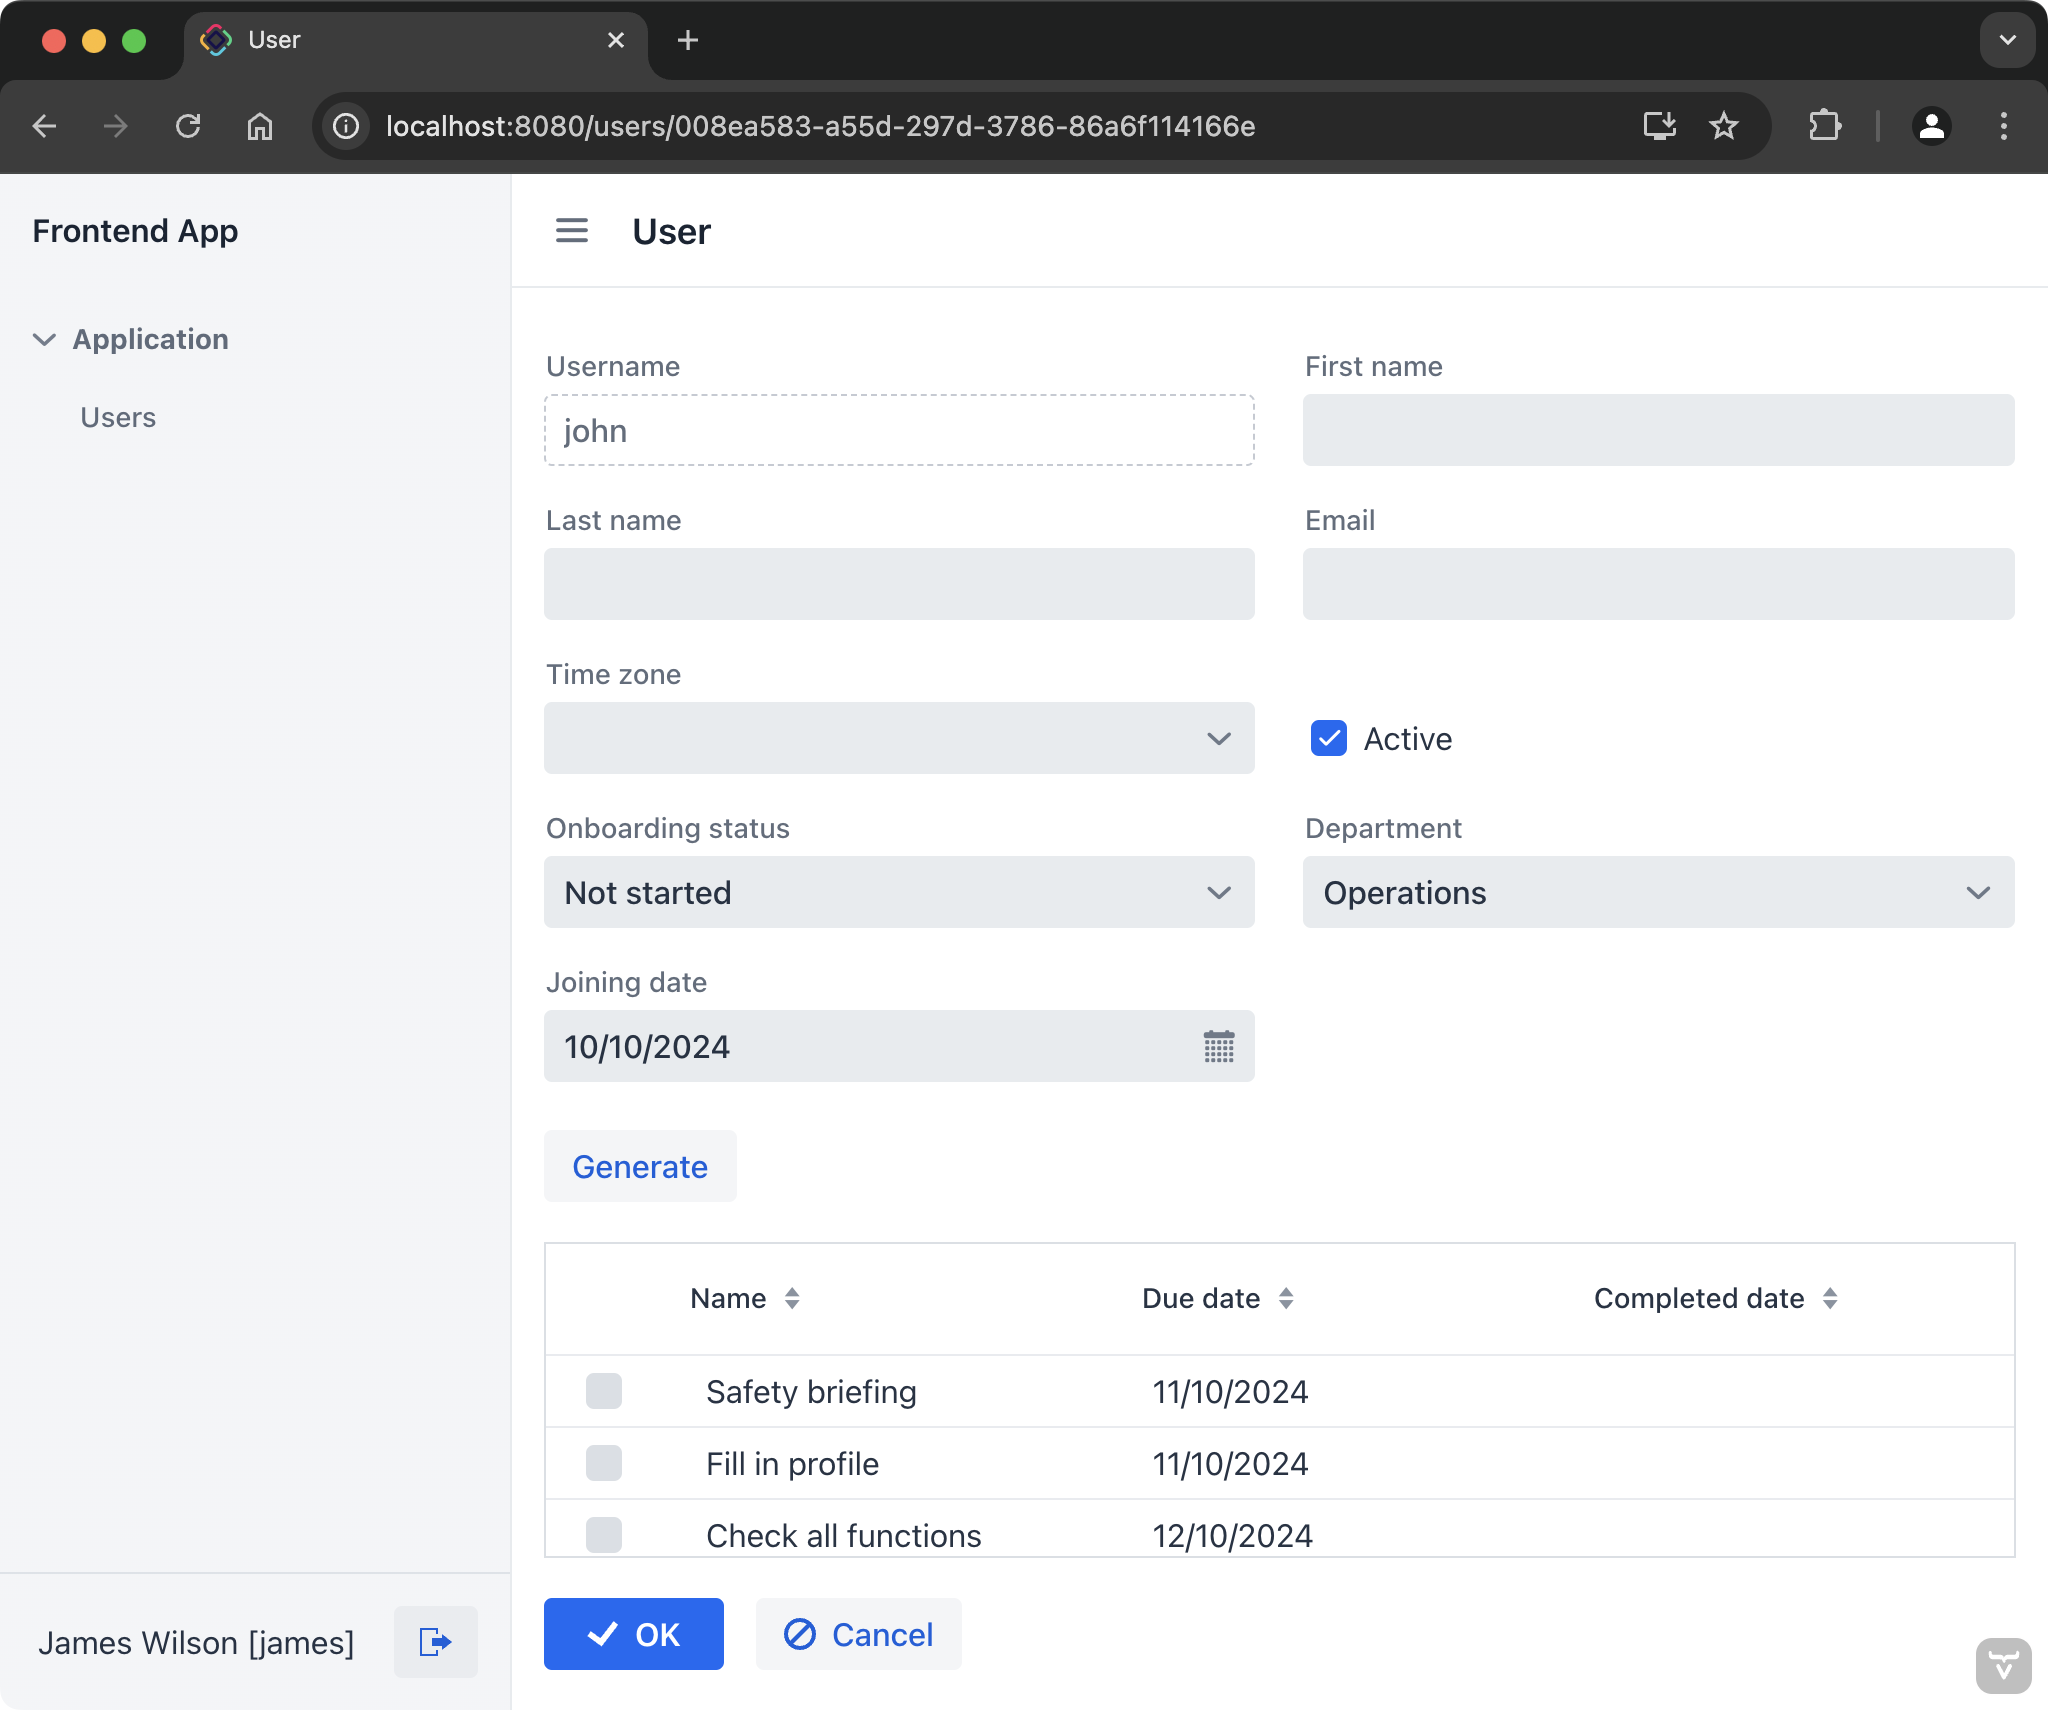
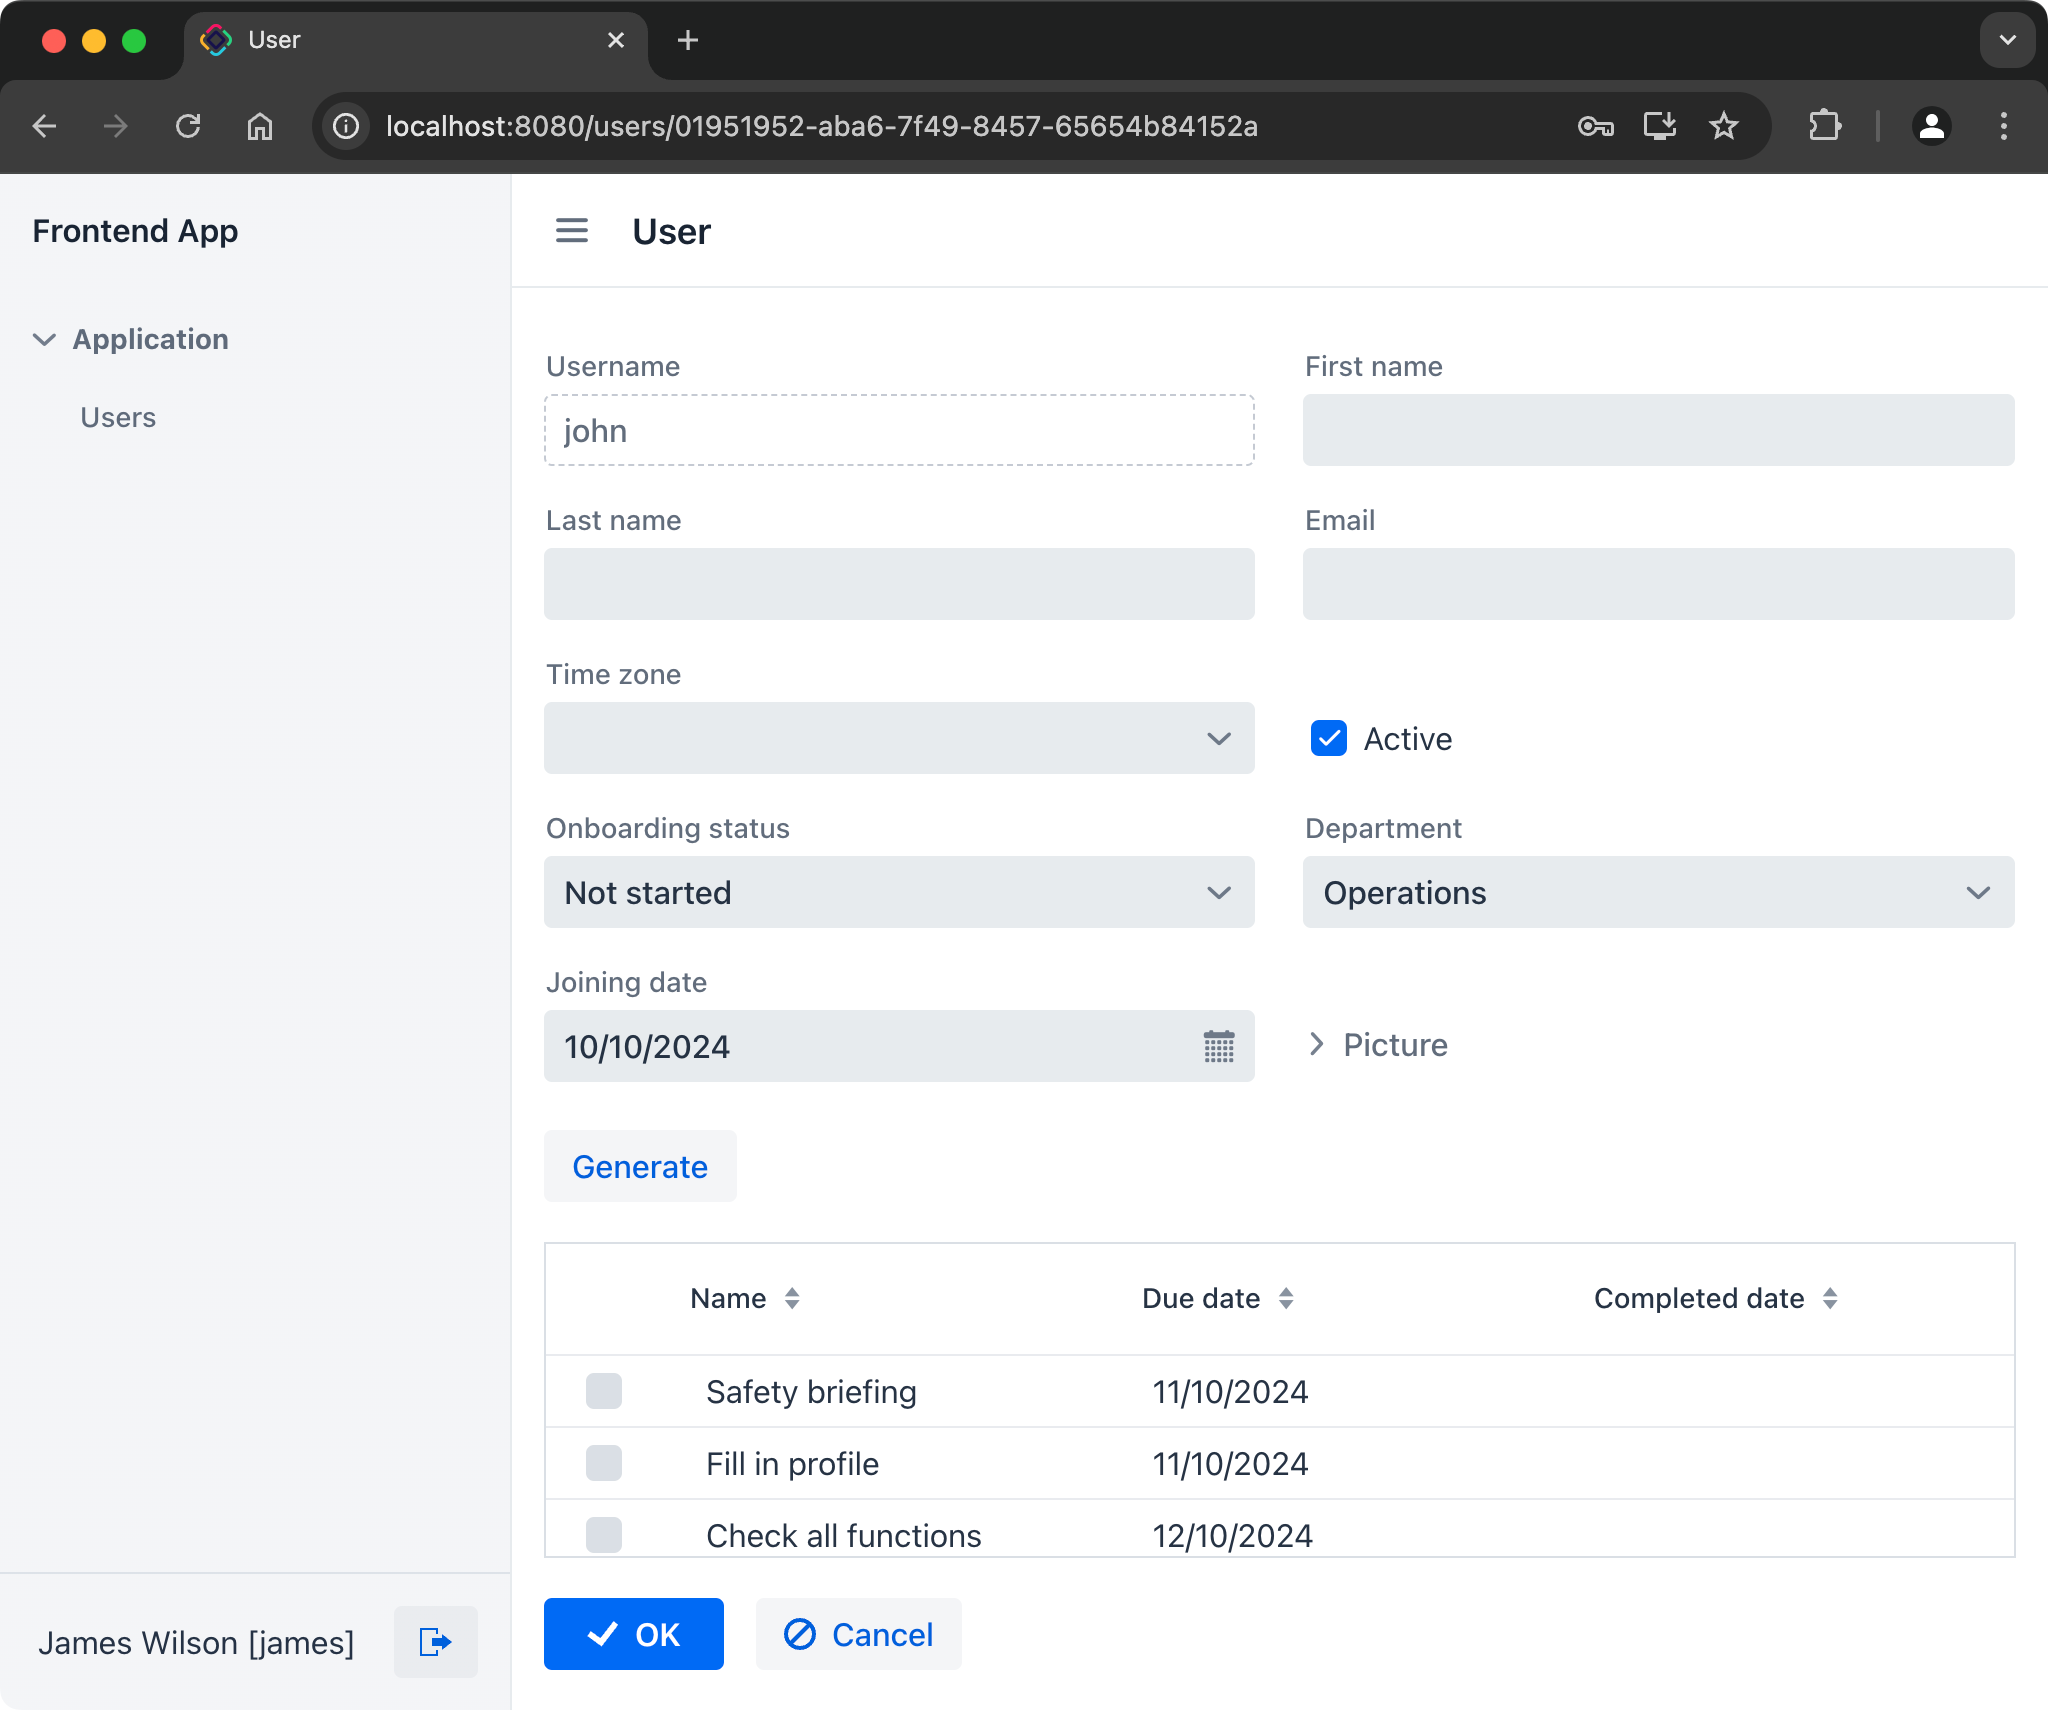
REST API and REST DataStore improvements in Jmix 2.5 (including jmix-framework/jmix-docs#936)

diff --git a/backend-app/src/main/java/com/company/backend/BackendAppApplication.java b/backend-app/src/main/java/com/company/backend/BackendAppApplication.java
@@ -1,17 +1,20 @@
 package com.company.backend;
 
+import com.company.backend.entity.User;
+import com.company.backend.security.OAuth2TokenUserMixin;
 import com.google.common.base.Strings;
 import com.vaadin.flow.component.page.AppShellConfigurator;
 import com.vaadin.flow.component.page.Push;
 import com.vaadin.flow.server.PWA;
 import com.vaadin.flow.theme.Theme;
+import io.jmix.authserver.service.mapper.JdbcOAuth2AuthorizationServiceObjectMapperCustomizer;
 import org.slf4j.LoggerFactory;
 import org.springframework.beans.factory.annotation.Autowired;
 import org.springframework.boot.SpringApplication;
 import org.springframework.boot.autoconfigure.SpringBootApplication;
+import org.springframework.boot.autoconfigure.jdbc.DataSourceProperties;
 import org.springframework.boot.context.event.ApplicationStartedEvent;
 import org.springframework.boot.context.properties.ConfigurationProperties;
-import org.springframework.boot.autoconfigure.jdbc.DataSourceProperties;
 import org.springframework.context.annotation.Bean;
 import org.springframework.context.annotation.Primary;
 import org.springframework.context.event.EventListener;
@@ -45,6 +48,14 @@ public class BackendAppApplication implements AppShellConfigurator {
     DataSource dataSource(final DataSourceProperties dataSourceProperties) {
         return dataSourceProperties.initializeDataSourceBuilder().build();
     }
+
+    // tag::tokenObjectMapperCustomizer[]
+    @Bean
+    JdbcOAuth2AuthorizationServiceObjectMapperCustomizer tokenObjectMapperCustomizer() {
+        return objectMapper ->
+                objectMapper.addMixIn(User.class, OAuth2TokenUserMixin.class);
+    }
+    // end::tokenObjectMapperCustomizer[]
 
     @EventListener
     public void printApplicationUrl(final ApplicationStartedEvent event) {

diff --git a/frontend-app/src/main/java/com/company/frontend/view/user/UserListView.java b/frontend-app/src/main/java/com/company/frontend/view/user/UserListView.java
@@ -2,8 +2,16 @@ package com.company.frontend.view.user;
 
 import com.company.frontend.entity.User;
 import com.company.frontend.view.main.MainView;
+import com.vaadin.flow.component.html.Image;
+import com.vaadin.flow.data.renderer.ComponentRenderer;
+import com.vaadin.flow.data.renderer.Renderer;
 import com.vaadin.flow.router.Route;
+import com.vaadin.flow.server.StreamResource;
+import io.jmix.core.FileRef;
+import io.jmix.core.FileStorage;
+import io.jmix.flowui.UiComponents;
 import io.jmix.flowui.view.*;
+import org.springframework.beans.factory.annotation.Autowired;
 
 @Route(value = "users", layout = MainView.class)
 @ViewController("User.list")
@@ -11,4 +19,31 @@ import io.jmix.flowui.view.*;
 @LookupComponent("usersDataGrid")
 @DialogMode(width = "64em")
 public class UserListView extends StandardListView<User> {
+
+    @Autowired
+    private UiComponents uiComponents;
+
+    @Autowired
+    private FileStorage fileStorage;
+
+    @Supply(to = "usersDataGrid.picture", subject = "renderer")
+    private Renderer<User> usersDataGridPictureRenderer() {
+        return new ComponentRenderer<>(user -> {
+            FileRef fileRef = user.getPicture();
+            if (fileRef != null) {
+                Image image = uiComponents.create(Image.class);
+                image.setWidth("30px");
+                image.setHeight("30px");
+                StreamResource streamResource = new StreamResource(
+                        fileRef.getFileName(),
+                        () -> fileStorage.openStream(fileRef));
+                image.setSrc(streamResource);
+                image.setClassName("user-picture");
+
+                return image;
+            } else {
+                return null;
+            }
+        });
+    }
 }

diff --git a/frontend-app/src/main/java/com/company/frontend/FrontendAppApplication.java b/frontend-app/src/main/java/com/company/frontend/FrontendAppApplication.java
@@ -5,6 +5,8 @@ import com.vaadin.flow.component.page.AppShellConfigurator;
 import com.vaadin.flow.component.page.Push;
 import com.vaadin.flow.server.PWA;
 import com.vaadin.flow.theme.Theme;
+import io.jmix.core.FileStorage;
+import io.jmix.restds.filestorage.RestFileStorage;
 import org.slf4j.LoggerFactory;
 import org.springframework.beans.factory.annotation.Autowired;
 import org.springframework.boot.SpringApplication;
@@ -45,6 +47,13 @@ public class FrontendAppApplication implements AppShellConfigurator {
     DataSource dataSource(final DataSourceProperties dataSourceProperties) {
         return dataSourceProperties.initializeDataSourceBuilder().build();
     }
+
+    // tag::backendFileStorage[]
+    @Bean
+    FileStorage backendFileStorage() {
+        return new RestFileStorage("backend", "fs");
+    }
+    // end::backendFileStorage[]
 
     @EventListener
     public void printApplicationUrl(final ApplicationStartedEvent event) {

diff --git a/backend-app/src/main/java/com/company/backend/security/HrManagerRole.java b/backend-app/src/main/java/com/company/backend/security/HrManagerRole.java
@@ -11,9 +11,13 @@ import io.jmix.security.model.SecurityScope;
 import io.jmix.security.role.annotation.EntityAttributePolicy;
 import io.jmix.security.role.annotation.EntityPolicy;
 import io.jmix.security.role.annotation.ResourceRole;
+import io.jmix.security.role.annotation.SpecificPolicy;
 
+// tag::role[]
 @ResourceRole(name = "HR Manager", code = "hr-manager", scope = SecurityScope.API)
 public interface HrManagerRole extends RestMinimalRole {
+    // ...
+    // end::role[]
 
     @EntityAttributePolicy(entityClass = Department.class,
             attributes = "*",
@@ -42,4 +46,9 @@ public interface HrManagerRole extends RestMinimalRole {
     @EntityPolicy(entityClass = UserStep.class,
             actions = EntityPolicyAction.ALL)
     void userStep();
+
+    // tag::files[]
+    @SpecificPolicy(resources = {"rest.fileDownload.enabled", "rest.fileUpload.enabled"})
+    void specific();
 }
+// end::files[]

diff --git a/backend-app/src/main/java/com/company/backend/security/OAuth2TokenUserMixin.java b/backend-app/src/main/java/com/company/backend/security/OAuth2TokenUserMixin.java
@@ -1,0 +1,21 @@
+package com.company.backend.security;
+
+import com.company.backend.entity.Department;
+import com.company.backend.entity.UserStep;
+import com.fasterxml.jackson.annotation.JsonIgnore;
+import io.jmix.authserver.service.mapper.DefaultOAuth2TokenUserMixin;
+import io.jmix.core.FileRef;
+
+import java.util.List;
+
+public class OAuth2TokenUserMixin extends DefaultOAuth2TokenUserMixin {
+
+    @JsonIgnore
+    private Department department;
+
+    @JsonIgnore
+    private List<UserStep> steps;
+
+    @JsonIgnore
+    private FileRef picture;
+}

diff --git a/backend-app/src/main/java/com/company/backend/entity/User.java b/backend-app/src/main/java/com/company/backend/entity/User.java
@@ -75,8 +75,10 @@ public class User implements JmixUserDetails, HasTimeZone {
     @Column(name = "JOINING_DATE")
     private LocalDate joiningDate;
 
+    // tag::picture[]
     @Column(name = "PICTURE", length = 1024)
     private FileRef picture;
+    // end::picture[]
 
     @Transient
     protected Collection<? extends GrantedAuthority> authorities;

diff --git a/frontend-app/src/main/java/com/company/frontend/entity/User.java b/frontend-app/src/main/java/com/company/frontend/entity/User.java
@@ -68,8 +68,10 @@ public class User implements JmixUserDetails, HasTimeZone {
     @JmixProperty
     private LocalDate joiningDate;
 
+    // tag::picture[]
     @JmixProperty
     private FileRef picture;
+    // end::picture[]
 
     @Transient
     protected Collection<? extends GrantedAuthority> authorities;
